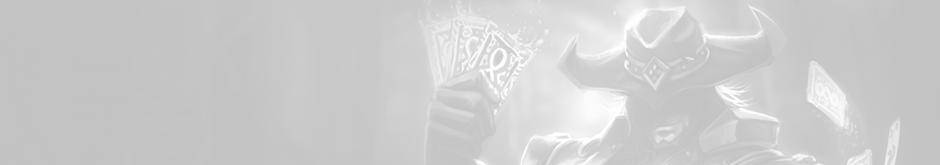
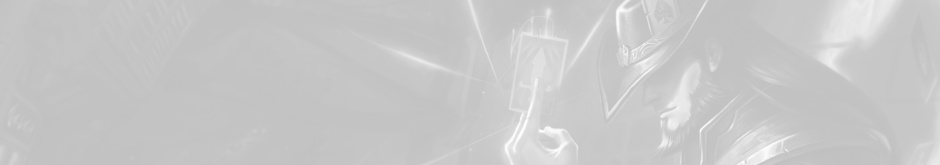
updated to new lol version updated tf art changed horiz bars

diff --git a/lol/static/js/game.js b/lol/static/js/game.js
@@ -36,7 +36,7 @@
     };
 
     TellMeMore.prototype.info_template = function(args) {
-      return "<td colspan=11>			<div class='span4'>				<b>Physical/Magical Damage</b><br>				<div class='hori-bar blue' title='Magical Damage'><div class='red' title='Physical Damage' style='width:" + ((args.physical_damage_dealt / args.damage_dealt) * 100) + "%;'></div></div>			</div>		</td>";
+      return "<td colspan=11>			<div class='span4'>				<b>Physical/Magical Damage</b><br>				<div class='hori-bar centered'>					<div class='red' title='Physical Damage' style='width:" + ((args.physical_damage_dealt / args.damage_dealt) * 100) + "%;'></div>					<div class='blue' title='Magical Damage' style='width:" + (100 - (args.physical_damage_dealt / args.damage_dealt) * 100) + "%;'></div>				</div>			</div>		</td>";
     };
 
     TellMeMore.prototype.get_info = function(player) {

diff --git a/lol/static/less/main/bars.less b/lol/static/less/main/bars.less
@@ -1,7 +1,7 @@
 .vert-bar {
 	display:inline-block;
 	.ie7-inline-block();
-	.box-shadow(0px 0px 2px);
+	// .box-shadow(0px 0px 2px);
 	overflow: hidden;
 	height:120px;
 	width:12px;
@@ -35,20 +35,26 @@
 }
 
 .hori-bar {
-	display:inline-block;
+	display:block;
 	line-height:0px;
 	text-align:right;
-	.ie7-inline-block();
+	// .ie7-inline-block();
 	overflow: hidden;
 	height:12px;
 	width:120px;
 	// #gradient > .vertical(@good, darken(@good, 10%));
 	& > div {
-		.box-sizing(border-box);
 		.transition(width .6s ease);
-		display:inline-block;
 		height:100%;
 		width:0%;
+		float:left;
+	}
+	&.large {
+		height:32px;
+		width:320px;
+	}
+	&.centered {
+		.center-block();
 	}
 	&.red, .red {
 		background-color:@bad;

diff --git a/lol/static/js/player.js b/lol/static/js/player.js
@@ -296,7 +296,8 @@
       subtitle: 'ELO GRAPH',
       shadowSize: 0,
       xaxis: {
-        mode: 'time'
+        mode: 'time',
+        noTicks: 10
       },
       yaxis: {
         autoscale: true,

diff --git a/lol/views.py b/lol/views.py
@@ -64,7 +64,7 @@ def view_game(request, region, game_id):
 	region=__get_region(region)
 	game=Game.objects.get(game_id=game_id, region=region)
 	modes=('CUSTOM', 'BOT', 'UNRANKED', 'RANKED', 'RANKED TEAM', 'RANKED PREMADE')
-	metadata={'map':game.get_game_map_display().upper(), 'mode':modes[game.game_mode], 'ranked':True if game.game_mode in (3,4,5) else False}
+	metadata={'map':game.get_game_map_display(), 'mode':modes[game.game_mode], 'ranked':True if game.game_mode in (3,4,5) else False}
 	update_in_queue=False
 	if game.fetched==False:
 		updating=cache.get('game/{}/{}/filling'.format(game.region, game.game_id))
